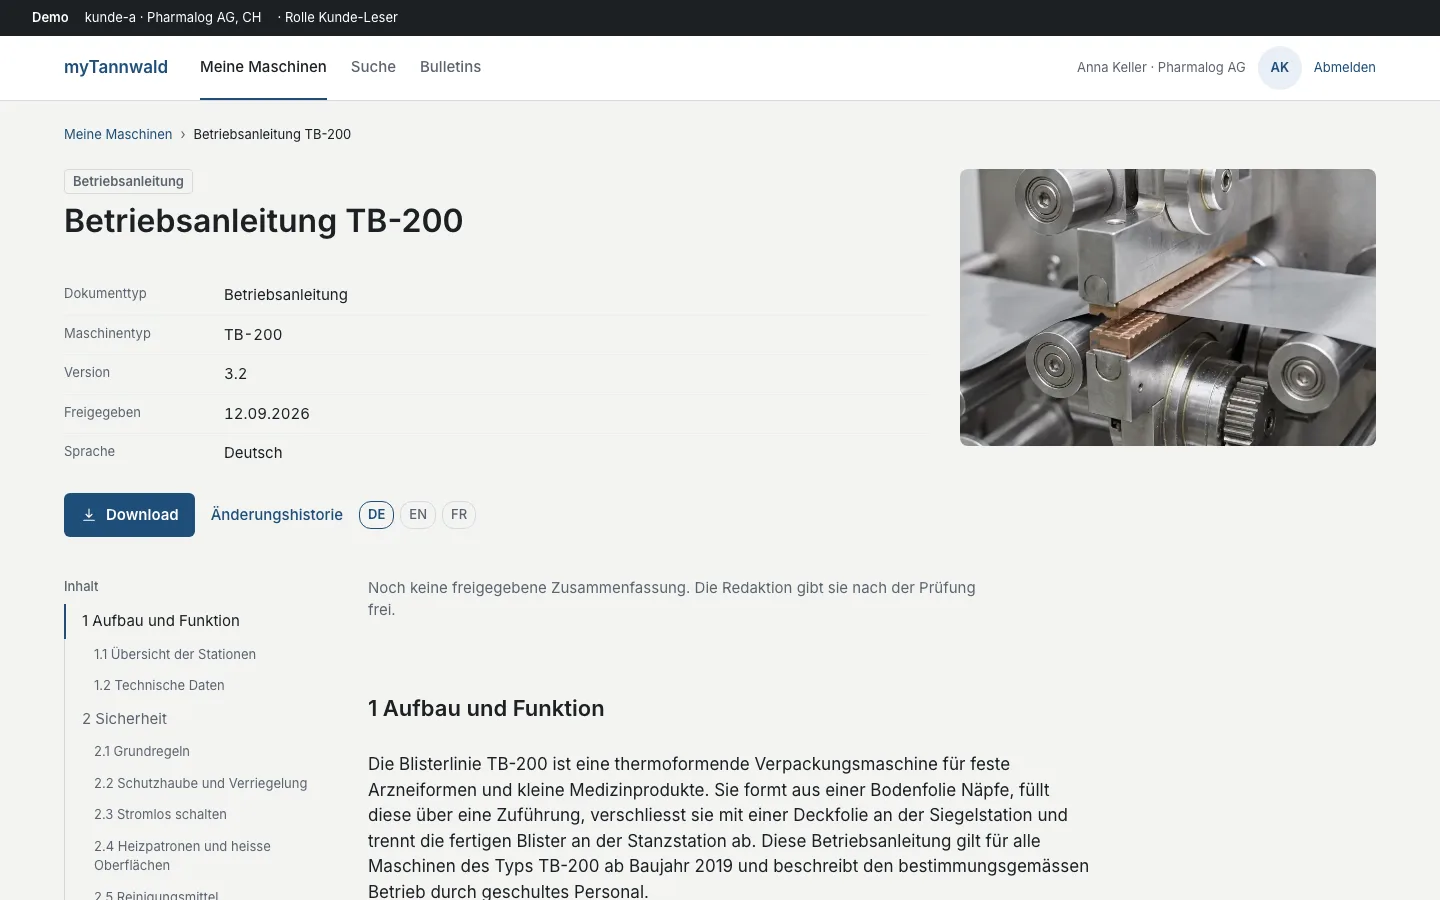
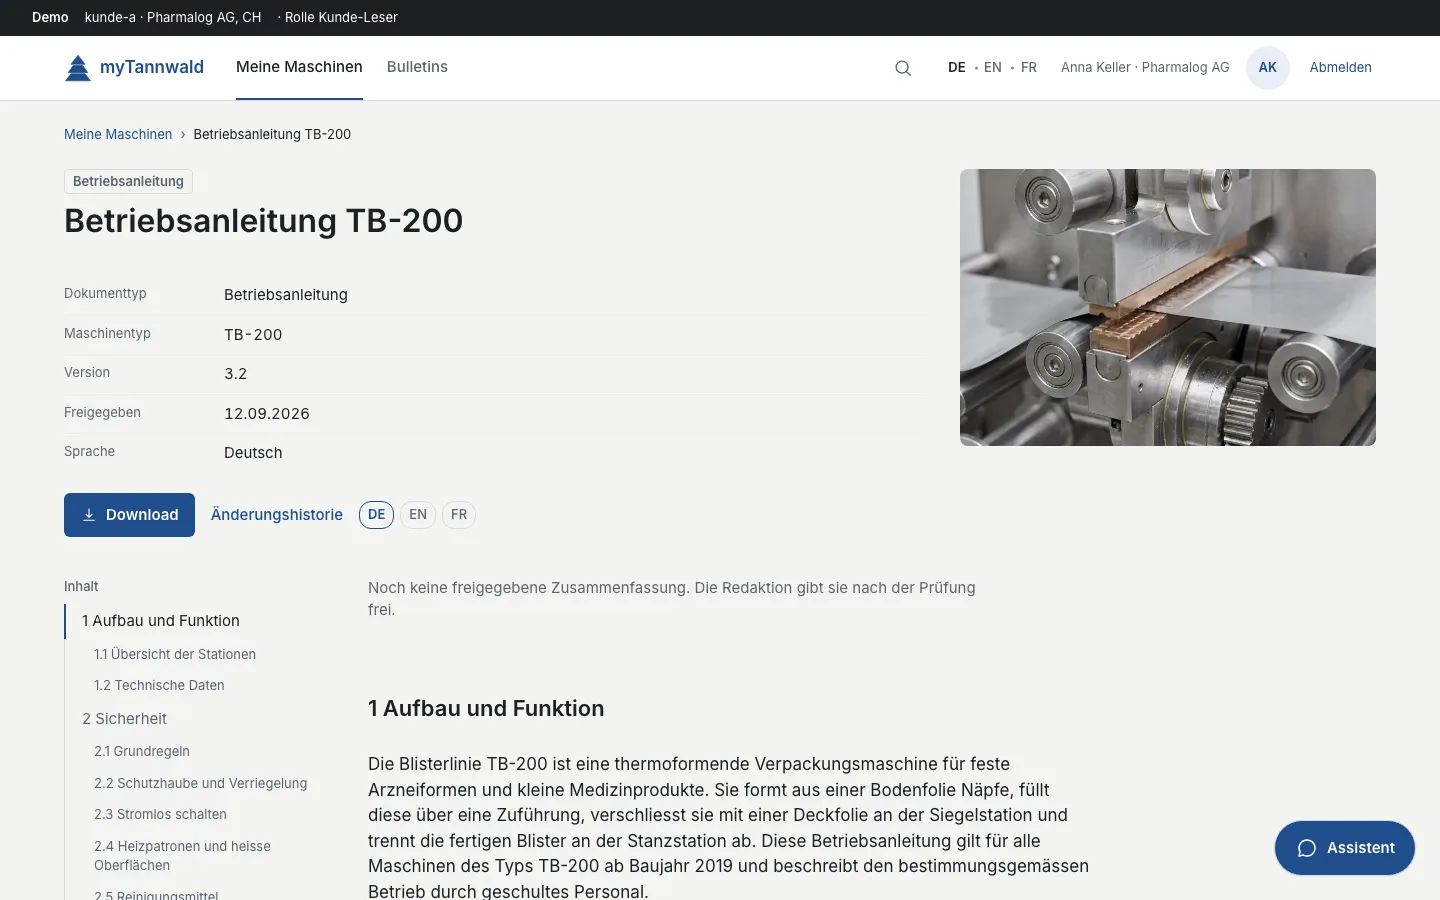
5.1 docs: screens 13-16 and GIF from the current theme state (brand colour, header, global assistant)

diff --git a/README.md b/README.md
@@ -176,8 +176,7 @@ Seiten und die Vorher/Nachher-Paare in [`docs/design/vergleichsblaetter.md`](doc
 | ![Maschine TB200-2021-0417: Typenschild links, Seriennummernbild rechts, offenes Bulletin, Dokumenten-Tabelle mit Thumbs](docs/screens/13-maschine-1440.webp) | ![Dokument Betriebsanleitung TB-200: Typenschild mit Titelbild, Download als Primär, haftendes Inhaltsverzeichnis, Lesespalte](docs/screens/14-dokument-1440.webp) |
 | ![Bulletin SB-2026-07: Sicherheits-Bulletin mit Bild, Datum und Hinweis zur Lesebestätigung, Kapitel mit Ankern](docs/screens/15-bulletin-1440.webp) | ![Styleguide: Typo-Skala, Farben mit Kontrasttabelle, Komponenten in allen Zuständen](docs/screens/16-styleguide-1440.webp) |
 
-Screens: 1440 px breit, sichtbarer Bereich oben (1440 × 900), WebP; Stand 2./3. November 2026 (Anmelden und Meine
-Maschinen mit Markenfarbe und Bildmarke vom 3. November, die übrigen vom 2. November vor dem Farbwechsel).
+Screens: 1440 px breit, sichtbarer Bereich oben (1440 × 900), WebP; Stand 3. November 2026.
 
 ## Architektur
 
